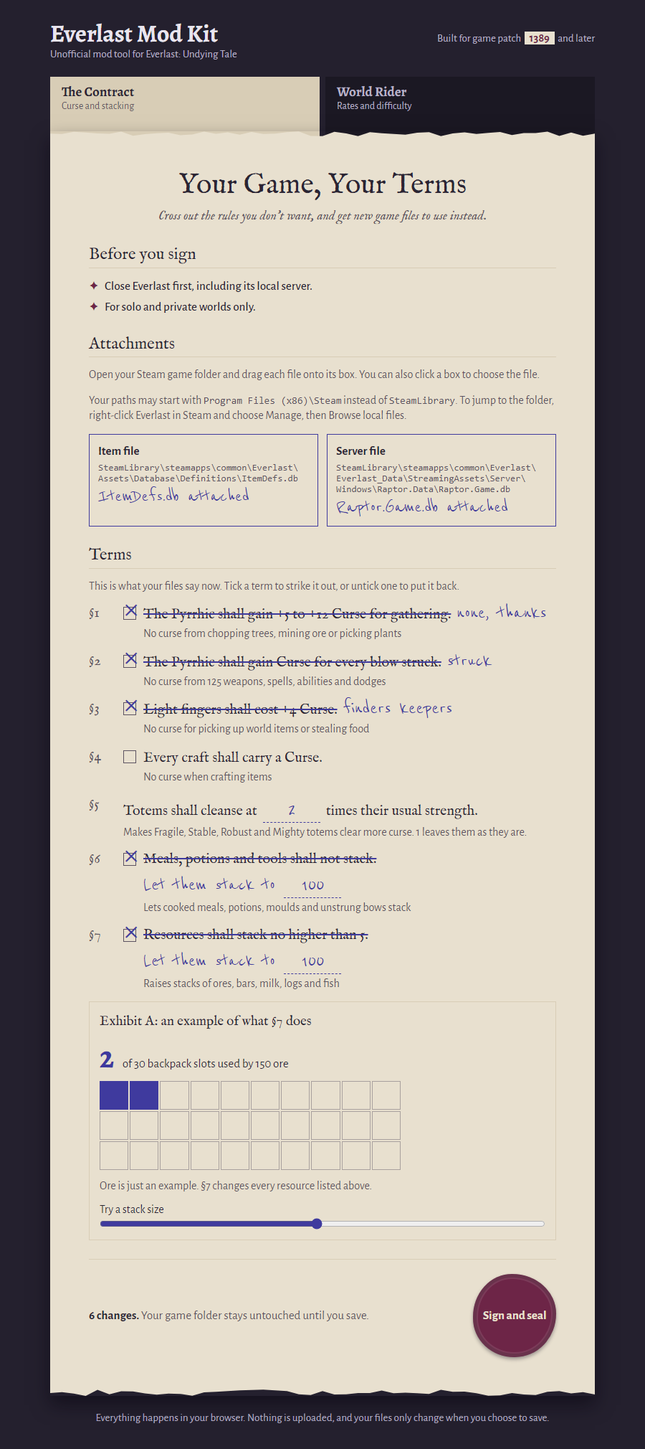
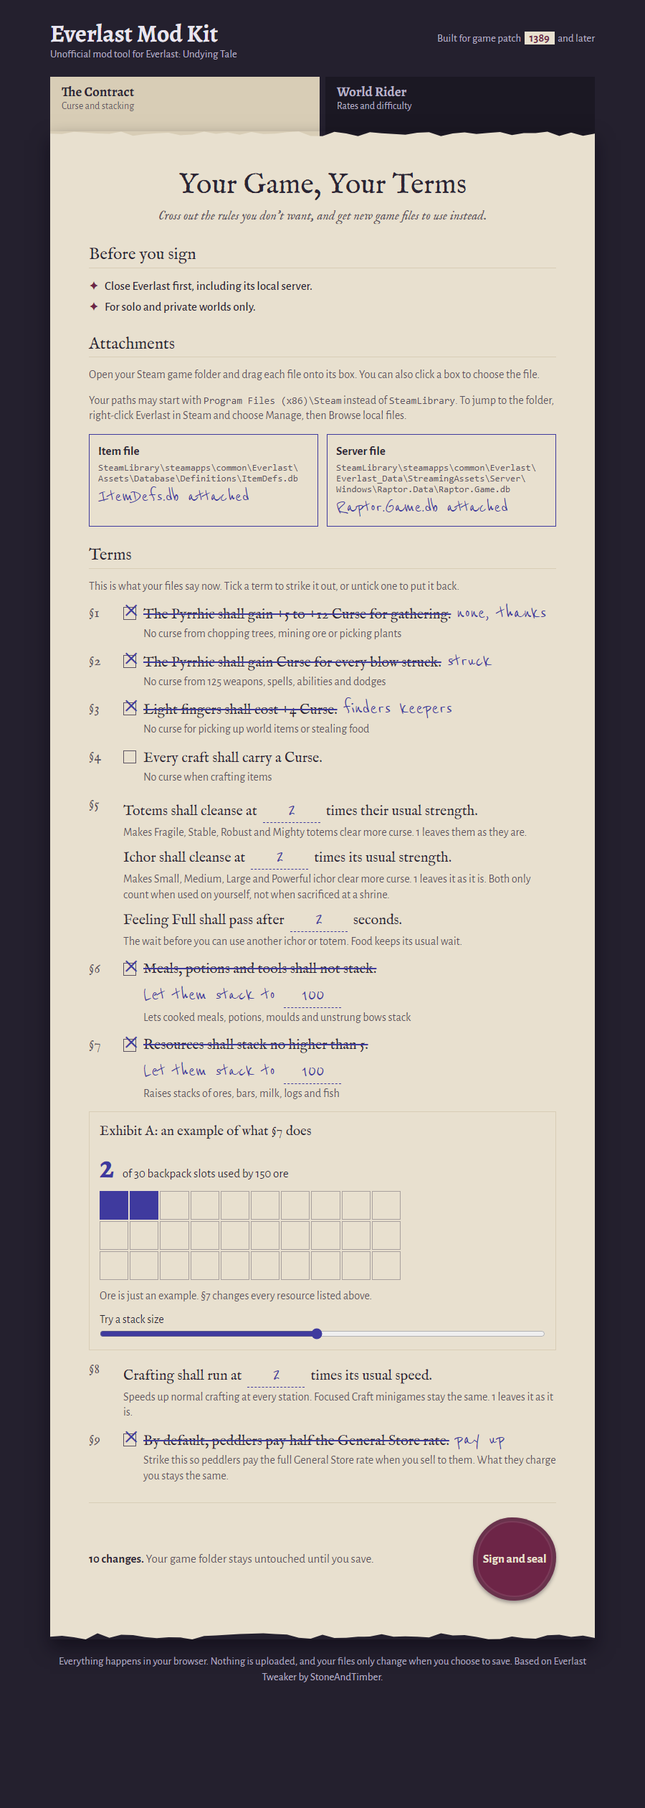
Add ichor, Feeling Full, crafting speed and peddler pay settings
Ichor strength shares the totem code. The Feeling Full wait only changes
ichor and totems. Crafting speed scales normal crafting from the game's
own times and leaves Focused Craft minigames alone. Peddlers can pay the
General Store rate. All of it can be reversed from the page.

The receipt no longer counts totem and ichor edits as stacking changes.
The README and screenshots cover the new settings.

Changed region(s): [[0.0622, 0.0, 0.9333, 0.9668], [0.6844, 0.0, 0.9333, 0.0312], [0.1244, 0.5302, 0.1556, 0.5614]]

diff --git a/Everlast Mod Kit.html b/Everlast Mod Kit.html
@@ -345,6 +345,18 @@
               <span>times their usual strength.</span>
             </div>
             <p class="plain">Makes Fragile, Stable, Robust and Mighty totems clear more curse. 1 leaves them as they are.</p>
+            <div class="rate-row">
+              <span>Ichor shall cleanse at</span>
+              <input class="ink-num" type="number" id="ichorMult" min="1" max="10" step="0.5" value="1.0" aria-label="Ichor strength multiplier">
+              <span>times its usual strength.</span>
+            </div>
+            <p class="plain">Makes Small, Medium, Large and Powerful ichor clear more curse. 1 leaves it as it is. Both only count when used on yourself, not when sacrificed at a shrine.</p>
+            <div class="rate-row">
+              <span>Feeling Full shall pass after</span>
+              <input class="ink-num" type="number" id="fullWait" min="1" max="5" step="1" value="5" aria-label="Feeling Full wait in seconds">
+              <span>seconds.</span>
+            </div>
+            <p class="plain">The wait before you can use another ichor or totem. Food keeps its usual wait.</p>
           </div>
         </div>
 
@@ -375,6 +387,26 @@
             <input type="range" id="packRange" min="5" max="200" value="100">
           </label>
         </figure>
+
+        <div class="clause open">
+          <span class="num">&sect;8</span>
+          <div>
+            <div class="rate-row">
+              <span>Crafting shall run at</span>
+              <input class="ink-num" type="number" id="craftSpeed" min="1" max="10" step="0.5" value="1.0" aria-label="Crafting speed multiplier">
+              <span>times its usual speed.</span>
+            </div>
+            <p class="plain">Speeds up normal crafting at every station. Focused Craft minigames stay the same. 1 leaves it as it is.</p>
+          </div>
+        </div>
+
+        <div class="clause">
+          <span class="num">&sect;9</span>
+          <div>
+            <label class="term"><input type="checkbox" id="fairPeddler"><span class="box"></span><s>By default, peddlers pay half the General Store rate.</s><span class="hand">pay up</span></label>
+            <p class="plain">Strike this so peddlers pay the full General Store rate when you sell to them. What they charge you stays the same.</p>
+          </div>
+        </div>
       </section>
 
       <section class="sign">
@@ -521,7 +553,8 @@ let readyFiles = null;
 let readyStats = null;
 let loadedTerms = null;
 const fileHandles = {};
-const TERM_BOXES = ['noGatherCurse', 'noCombatCurse', 'noStealCurse', 'noCraftCurse', 'stackNewItems', 'upgradeResources'];
+const TERM_BOXES = ['noGatherCurse', 'noCombatCurse', 'noStealCurse', 'noCraftCurse', 'fairPeddler', 'stackNewItems', 'upgradeResources'];
+const RATE_BOXES = ['totemMult', 'ichorMult', 'fullWait', 'craftSpeed'];
 const STACK_TERMS = [['stackNewItems', 'newStackSize', 'newStackAmend', 'newSize'], ['upgradeResources', 'resourceStackSize', 'resourceAmend', 'resourceSize']];
 let currentWorldJson = null;
 let currentWorldFileName = "worldsettings.json";
@@ -556,7 +589,7 @@ function countChanges() {
   if (!loadedTerms) return 0;
   const terms = TERM_BOXES.filter(id => $(id).checked !== loadedTerms[id]).length;
   const sizes = STACK_TERMS.filter(([box, num, , size]) => $(box).checked && loadedTerms[box] && Number($(num).value) !== loadedTerms[size]).length;
-  return terms + sizes + (Number($('totemMult').value) !== loadedTerms.totemMult ? 1 : 0);
+  return terms + sizes + RATE_BOXES.filter(id => Number($(id).value) !== loadedTerms[id]).length;
 }
 
 function checkReady() {
@@ -611,8 +644,10 @@ function showTerms(terms) {
   STACK_TERMS.forEach(([box, num, , size]) => {
     $(num).value = (terms && terms[box] && terms[size]) || $(num).defaultValue;
   });
-  $('totemMult').disabled = !terms;
-  $('totemMult').value = terms ? terms.totemMult : 1;
+  RATE_BOXES.forEach(id => {
+    $(id).disabled = !terms;
+    $(id).value = terms ? terms[id] : $(id).defaultValue;
+  });
 
   $('termsHint').textContent = terms
     ? 'This is what your files say now. Tick a term to strike it out, or untick one to put it back.'
@@ -822,8 +857,25 @@ const TOTEM_BASES = {
   'Mighty Totem': -60
 };
 
+const ICHOR_BASES = {
+  'Small Ichor': -10,
+  'Medium Ichor': -20,
+  'Large Ichor': -30,
+  'Powerful Ichor': -40
+};
+
+const CLEANSERS = [
+  { bases: TOTEM_BASES, mult: 'totemMult', stat: 'totemsBuffed' },
+  { bases: ICHOR_BASES, mult: 'ichorMult', stat: 'ichorsBuffed' }
+];
+
+const FEELING_FULL = 54;
+const PEDDLER_SHOP = 30;
+const PEDDLER_PAY = 50;
+const GENERAL_STORE_PAY = 100;
+
 // The game's own values for patch 1389. Files don't remember what a mod replaced, so unticking a term restores from here.
-const VANILLA = {"resources":{"1":5,"2":5,"3":5,"19":5,"20":5,"21":5,"22":5,"23":5,"24":5,"25":5,"26":5,"27":5,"28":5,"29":5,"30":5,"31":5,"33":5,"34":5,"35":5,"36":5,"37":5,"38":5,"39":5,"40":5,"41":5,"42":5,"43":5,"44":5,"45":5,"46":5,"48":5,"49":5,"50":5,"70":5,"71":5,"72":5,"73":5,"74":5,"75":5,"76":5,"77":5,"78":5,"79":5,"80":5,"91":5,"97":5,"98":5,"99":5,"100":5,"101":5,"102":5,"103":5,"104":5,"105":5,"106":5,"107":5,"108":5,"109":5,"110":5,"111":5,"112":5,"113":5,"114":5,"117":5,"118":5,"119":5,"120":5,"121":5,"122":5,"123":5,"124":5,"125":5,"126":5,"127":5,"128":5,"130":5,"131":5,"132":5,"133":5,"134":5,"135":5,"136":5,"137":5,"138":5,"139":5,"140":5,"141":5,"142":5,"143":5,"144":5,"145":5,"146":5,"147":5,"148":5,"149":5,"150":5,"151":5,"157":5,"158":5,"159":5,"160":5,"161":5,"162":5,"163":5,"164":5,"165":5,"166":5,"167":5,"168":5,"169":5,"170":5,"171":5,"172":5,"173":5,"174":5,"175":5,"176":5,"177":5,"178":5,"179":5,"180":5,"181":5,"182":5,"183":5,"184":5,"185":5,"186":5,"191":5,"193":5,"196":5,"198":5,"203":5,"207":5,"213":5,"215":5,"216":5,"217":5,"218":5,"221":5,"222":5,"225":5,"229":5,"235":5,"253":5,"254":5,"255":5,"256":5,"257":5,"258":5,"259":5,"260":5,"261":5,"262":5,"263":5,"264":5,"270":5,"272":5,"275":5,"277":5,"280":5,"283":5,"287":5,"288":5,"292":5,"293":5,"296":5,"649":5,"650":5,"652":5,"653":5,"654":5,"655":5,"656":20,"657":5,"658":5,"659":5,"661":5,"662":5,"663":5,"665":5,"667":5,"671":5,"676":5,"813":5,"817":5,"838":5,"893":5,"895":5,"897":5,"899":5,"901":5,"903":5,"905":5,"907":5,"909":5,"911":5,"913":5,"914":5,"916":5,"918":5,"920":5,"922":5,"924":5,"926":5,"928":5,"930":5,"932":5,"934":5,"936":5,"938":5,"940":5,"942":5,"944":5,"979":20,"980":20,"1032":20,"1033":20,"1036":5,"1038":5,"1066":5,"1081":5,"1082":5,"1083":5,"1084":5,"1085":5,"1086":5,"1087":5,"1088":5,"1100":5,"1102":5,"1103":5,"1104":5,"1105":5,"1111":5,"1112":5,"1123":5,"1124":5,"1125":5,"1126":5,"1154":5},"unstacked":{"81":[0,0],"83":[0,0],"87":[0,0],"88":[0,0],"189":[0,0],"192":[0,0],"194":[0,0],"195":[0,0],"197":[0,0],"199":[0,0],"200":[0,0],"201":[0,0],"202":[0,0],"204":[0,0],"205":[0,0],"206":[0,0],"208":[0,0],"209":[0,0],"210":[0,0],"211":[0,0],"212":[0,0],"214":[0,0],"223":[0,0],"224":[0,0],"226":[0,0],"227":[0,0],"230":[0,0],"231":[0,0],"232":[0,0],"233":[0,0],"234":[0,0],"236":[0,0],"237":[0,0],"238":[0,0],"239":[0,0],"240":[0,0],"241":[0,0],"242":[0,0],"243":[0,0],"244":[0,0],"245":[0,0],"246":[0,0],"247":[0,0],"248":[0,0],"249":[0,0],"250":[0,0],"251":[0,0],"252":[0,0],"625":[1,1],"626":[1,1],"627":[1,1],"629":[1,1],"630":[1,1],"632":[1,1],"633":[0,0],"634":[1,1],"635":[0,0],"636":[0,0],"637":[0,0],"638":[1,1],"639":[0,0],"640":[0,0],"641":[1,1],"642":[0,0],"644":[0,0],"645":[0,0],"646":[0,0],"647":[0,0],"648":[0,0],"651":[0,0],"660":[0,0],"664":[0,0],"666":[0,0],"668":[0,0],"669":[0,0],"670":[0,0],"672":[0,0],"673":[0,0],"674":[0,0],"675":[0,0],"677":[0,0],"678":[0,0],"679":[0,0],"680":[0,0],"681":[0,0],"682":[0,0],"683":[0,0],"684":[0,0],"685":[0,0],"686":[0,0],"687":[0,0],"688":[0,0],"689":[0,0],"690":[0,0],"691":[0,0],"692":[0,0],"693":[0,0],"694":[0,0],"695":[0,0],"696":[0,0],"697":[0,0],"698":[0,0],"699":[0,0],"700":[0,0],"701":[0,0],"702":[0,0],"703":[0,0],"704":[0,0],"705":[0,0],"706":[0,0],"707":[0,0],"816":[0,0],"818":[0,0],"819":[0,0],"820":[0,0],"825":[0,0],"826":[0,0],"839":[1,1],"840":[1,1],"841":[0,0],"853":[0,0],"854":[0,0],"855":[0,0],"856":[0,0],"857":[0,0],"858":[0,0],"859":[0,0],"860":[0,0],"861":[0,0],"862":[0,0],"863":[0,0],"864":[0,0],"865":[0,0],"866":[0,0],"867":[0,0],"868":[0,0],"869":[0,0],"870":[0,0],"871":[0,0],"872":[0,0],"873":[0,0],"874":[0,0],"875":[0,0],"876":[0,0],"877":[0,0],"878":[0,0],"879":[0,0],"880":[0,0],"881":[0,0],"882":[0,0],"883":[0,0],"884":[0,0],"885":[0,0],"886":[0,0],"887":[0,0],"888":[0,0],"889":[0,0],"890":[0,0],"891":[0,0],"892":[0,0],"900":[1,1],"948":[1,1],"950":[1,1],"952":[1,1],"955":[1,1],"956":[1,1],"957":[1,1],"958":[1,1],"959":[1,1],"960":[1,1],"961":[1,1],"962":[1,1],"963":[1,1],"964":[1,1],"965":[1,1],"966":[1,1],"968":[1,1],"969":[0,0],"974":[0,0],"981":[0,0],"982":[0,0],"984":[1,1],"1006":[0,0],"1034":[1,1],"1035":[0,0],"1044":[0,0],"1046":[1,1],"1047":[0,0],"1048":[0,0],"1049":[0,0],"1050":[0,0],"1051":[0,0],"1052":[0,0],"1053":[0,0],"1065":[0,0],"1068":[0,0],"1075":[1,1],"1107":[0,0],"1108":[0,0],"1109":[0,0],"1110":[0,0],"1113":[0,0],"1128":[0,0],"1129":[0,0],"1130":[0,0],"1131":[0,0],"1132":[0,0],"1133":[0,0],"1134":[0,0],"1135":[0,0],"1136":[0,0],"1137":[0,0],"1138":[0,0],"1141":[0,0],"1142":[0,0],"1143":[0,0],"1144":[0,0],"1145":[0,0],"1146":[0,0],"1147":[0,0],"1148":[0,0],"1149":[0,0],"1155":[0,0],"1156":[0,0],"1157":[0,0],"1158":[0,0],"1164":[0,0],"1165":[0,0],"1166":[0,0],"1167":[0,0],"1168":[0,0],"1169":[0,0],"1170":[0,0],"1171":[0,0]},"leftovers":{"129":5,"832":5,"850":5},"abilities":{"3":5,"4":3,"5":1,"6":5,"12":3,"13":5,"21":3,"22":5,"30":3,"32":3,"33":3,"35":5,"36":1,"37":1,"38":5,"39":5,"41":3,"43":5,"44":5,"45":3,"46":3,"47":5,"50":1,"51":3,"52":3,"53":1,"54":5,"55":3,"56":3,"57":1,"58":5,"59":3,"60":3,"61":1,"62":3,"63":3,"64":3,"65":3,"66":1,"67":5,"68":5,"69":3,"74":3,"75":5,"77":5,"79":5,"80":5,"81":5,"82":5,"83":5,"84":5,"85":3,"86":5,"87":1,"88":1,"89":5,"167":2,"171":3,"172":5,"183":1,"187":3,"188":3,"210":3,"217":5,"219":5,"220":5,"223":8,"224":8,"225":8,"226":8,"227":5,"228":5,"229":5,"230":5,"231":5,"232":5,"233":3,"234":3,"235":1,"236":3,"237":3,"238":5,"239":5,"240":5,"242":5,"243":3,"244":5,"245":5,"246":3,"247":5,"254":3,"255":5,"256":5,"257":5,"258":5,"261":8,"262":8,"263":8,"264":8,"265":8,"266":8,"272":2,"273":3,"274":3,"275":3,"276":3,"277":3,"278":3,"279":3,"280":3,"281":3,"282":3,"283":3,"284":3,"285":5,"286":3,"287":3,"288":3,"289":3,"290":3,"291":3,"292":3,"295":5,"296":3,"303":3},"curses":{"1":{"Collect":[4,4]},"2":{"Craft":[0,6,6,6,6,6,6,6,6,6,6,6,6,6,6,6,6,6,6]},"5":{"Success":[10,5,6,7,8,8,8,8,8,9,10,11,12]},"12":{"Success":[5,5,5,6,7,8,8,9,10,11,11,12,12]},"14":{"Craft":[6,6,6,6,6,6,6,6,6]},"16":{"Craft":[6,6]},"29":{"Craft":[6,6,6,6,6,6,6,6]},"33":{"Craft":[6,6,6,6,6,6,6,6,6,6,6,6]},"35":{"Success":[6]},"40":{"Success":[6,6,6,6,6,6,6,6,6,6,6,6,6,6,6]},"41":{"Craft":[6,6,6,6,6,6]},"42":{"Craft":[6,6,6,6,6,6,6,6,6,6,6]},"44":{"Craft":[6,6,6,6,6]},"45":{"Craft":[6,6,6,6,6,6,6,6,6]},"46":{"Craft":[6,6,6,6,6]},"47":{"Craft":[6,6,6,6,6,6,6,6,6,6,6]},"49":{"Craft":[6,6,6,6,6,6,6,6,6,6,6]},"50":{"Craft":[6,6,6,6,6]},"51":{"Craft":[6,6,6,6,6,6,6,6,6,6,6,6,6,6,6,6,6,6,6,6,6]},"52":{"Craft":[6,6,6,6,6]},"53":{"Craft":[6,6,6,6,6,6,6,6,6,6,6,6,6,6,6,6,6,6,6,6,6,6]},"56":{"Craft":[6,6,6,6,6]},"57":{"Craft":[6,6,6,6,6]},"58":{"Craft":[6,6,6,6,6,6,6,6,6,6,6,6,6,6,6,6,6,6,6,6,6]},"59":{"Craft":[6,6,6,6,6,6,6,6,6,6,6,6,6,6,6,6,6,6,6,6,6]},"60":{"Craft":[6,6,6,6,6,6,6,6,6,6,6,6,6,6,6,6,6]},"61":{"Craft":[6,6,6,6,6,6,6,6,6,6,6,6,6,6,6,6,6,6,6,6,6,6,6]},"62":{"Craft":[6,6,6,6,6,6,6,6,6,6,6,6,6,6,6,6,6,6,6,6,6,6,6]},"63":{"Craft":[6,6,6,6,6,6,6,6,6,6,6,6,6,6,6,6,6,6,6,6,6,6,6]},"64":{"Craft":[6,6,6,6,6,6,6,6,6]},"65":{"Craft":[6,6,6,6,6,6,6,6,6,6,6,6,6,6,6,6,6,6,6,6,6,6,6,6,6,6,6,6]},"70":{"Craft":[6,6,6,6,6]},"71":{"Craft":[6,6,6,6,6,6]},"72":{"Craft":[6,6,6,6,6]},"73":{"Craft":[6,6,6,6]},"74":{"Craft":[6,6,6,6,6]},"75":{"Craft":[6,6,6,6,6,6,6,6]},"76":{"Craft":[6,6,6,6,6,6]},"77":{"Craft":[6,6,6,6,6]},"78":{"Craft":[6,6,6,6,6]},"79":{"Craft":[6,6,6,6,6,6]},"80":{"Craft":[6,6,6,6,6,6]},"81":{"Craft":[6,6,6,6,6,6]},"82":{"Craft":[6,6,6,6,6,6]},"84":{"Success":[6,6,6,6,6]},"85":{"Success":[6,6,6,6,6,6,6]},"86":{"Craft":[6,6,6,6,6,6,6,6,6,6,6,6,6,6]},"87":{"Craft":[6,6,6,6,6,6,6,6]},"88":{"Craft":[6,6,6,6,6,6,6,6,6]},"107":{"Collect":[4,4,4,4,0,4,0,4,4,4,4,4,4,4,4,4,4,4,4,4,4,4,4,4,4,4,4,4,4,4,4,4,4,4,4,4,4,4,4,4,4,4,4,4,4,4,4,4,4,4,4,4,4,4,4,4,4,4,4]},"110":{"Craft":[6,6,6,6,6]},"115":{"Success":[6,6,6,6,6,6,6,6,6,6,6,6,6,6,6,6,6,6,6,6,6,6,6,6,6,6,6,6,6,6,6,6]},"118":{"Craft":[6,6,6,6,6,6,6,6,6,6,6,6,6,6,6,6,6,6,6,6,6,6,6,6,6,6]},"120":{"Craft":[6,6,6,6,6,6,6,6,6,6,6]},"121":{"Craft":[6,6,6,6,6,6,6]},"122":{"Craft":[6,6,6,6]},"124":{"Craft":[6,6,6,6,6,6,6,6,6,6,6,6]},"125":{"Craft":[6,6,6,6,6,6,6,6,6]},"126":{"Craft":[6]},"127":{"Craft":[6,6,6,6,6,6,6,6,6,6]},"128":{"Craft":[6,6,6,6,6,6,6,6,6,6]},"134":{"Success":[6,6,6,6,6]},"138":{"Craft":[6]},"139":{"Success":[6,6,6,6,6,6,6,6,6,6,6]},"140":{"Craft":[6,6,6,6,6,6,6,6,6,6,6]},"147":{"Craft":[6,6,6,6,6,6]},"151":{"Craft":[6,6,6,6,6,6,6,6,6]},"152":{"Craft":[6,6,6,6]},"153":{"Craft":[6,6]},"155":{"Craft":[6,6,6,6,6,6,6,6,6,6,6,6,6,6,6,6,6,6,6]},"164":{"Craft":[6]},"168":{"Success":[6,6,6,6,6,6,6,6]},"175":{"Success":[5,5,5,6,6,6,6,7,7,7,7,8,6,6]},"185":{"Success":[6]},"186":{"Craft":[6,6,6,6,6,6,6,6,6,6,6,6,6,6,6,6,6,6,6,6]},"187":{"Craft":[6]},"188":{"Craft":[6]},"196":{"Craft":[6,6,6]},"197":{"Craft":[6,6]},"199":{"Craft":[6]},"204":{"Craft":[6]},"206":{"Craft":[6,6,6,6,6,6,6,6,6,6,6,6,6,6,6,6,6,6,6,6,6,6,6,6,6,6,6,6,6,6]},"207":{"Craft":[6,6,6,6,6,6,6,6,6,6]}}};
+const VANILLA = {"resources":{"1":5,"2":5,"3":5,"19":5,"20":5,"21":5,"22":5,"23":5,"24":5,"25":5,"26":5,"27":5,"28":5,"29":5,"30":5,"31":5,"33":5,"34":5,"35":5,"36":5,"37":5,"38":5,"39":5,"40":5,"41":5,"42":5,"43":5,"44":5,"45":5,"46":5,"48":5,"49":5,"50":5,"70":5,"71":5,"72":5,"73":5,"74":5,"75":5,"76":5,"77":5,"78":5,"79":5,"80":5,"91":5,"97":5,"98":5,"99":5,"100":5,"101":5,"102":5,"103":5,"104":5,"105":5,"106":5,"107":5,"108":5,"109":5,"110":5,"111":5,"112":5,"113":5,"114":5,"117":5,"118":5,"119":5,"120":5,"121":5,"122":5,"123":5,"124":5,"125":5,"126":5,"127":5,"128":5,"130":5,"131":5,"132":5,"133":5,"134":5,"135":5,"136":5,"137":5,"138":5,"139":5,"140":5,"141":5,"142":5,"143":5,"144":5,"145":5,"146":5,"147":5,"148":5,"149":5,"150":5,"151":5,"157":5,"158":5,"159":5,"160":5,"161":5,"162":5,"163":5,"164":5,"165":5,"166":5,"167":5,"168":5,"169":5,"170":5,"171":5,"172":5,"173":5,"174":5,"175":5,"176":5,"177":5,"178":5,"179":5,"180":5,"181":5,"182":5,"183":5,"184":5,"185":5,"186":5,"191":5,"193":5,"196":5,"198":5,"203":5,"207":5,"213":5,"215":5,"216":5,"217":5,"218":5,"221":5,"222":5,"225":5,"229":5,"235":5,"253":5,"254":5,"255":5,"256":5,"257":5,"258":5,"259":5,"260":5,"261":5,"262":5,"263":5,"264":5,"270":5,"272":5,"275":5,"277":5,"280":5,"283":5,"287":5,"288":5,"292":5,"293":5,"296":5,"649":5,"650":5,"652":5,"653":5,"654":5,"655":5,"656":20,"657":5,"658":5,"659":5,"661":5,"662":5,"663":5,"665":5,"667":5,"671":5,"676":5,"813":5,"817":5,"838":5,"893":5,"895":5,"897":5,"899":5,"901":5,"903":5,"905":5,"907":5,"909":5,"911":5,"913":5,"914":5,"916":5,"918":5,"920":5,"922":5,"924":5,"926":5,"928":5,"930":5,"932":5,"934":5,"936":5,"938":5,"940":5,"942":5,"944":5,"979":20,"980":20,"1032":20,"1033":20,"1036":5,"1038":5,"1066":5,"1081":5,"1082":5,"1083":5,"1084":5,"1085":5,"1086":5,"1087":5,"1088":5,"1100":5,"1102":5,"1103":5,"1104":5,"1105":5,"1111":5,"1112":5,"1123":5,"1124":5,"1125":5,"1126":5,"1154":5},"unstacked":{"81":[0,0],"83":[0,0],"87":[0,0],"88":[0,0],"189":[0,0],"192":[0,0],"194":[0,0],"195":[0,0],"197":[0,0],"199":[0,0],"200":[0,0],"201":[0,0],"202":[0,0],"204":[0,0],"205":[0,0],"206":[0,0],"208":[0,0],"209":[0,0],"210":[0,0],"211":[0,0],"212":[0,0],"214":[0,0],"223":[0,0],"224":[0,0],"226":[0,0],"227":[0,0],"230":[0,0],"231":[0,0],"232":[0,0],"233":[0,0],"234":[0,0],"236":[0,0],"237":[0,0],"238":[0,0],"239":[0,0],"240":[0,0],"241":[0,0],"242":[0,0],"243":[0,0],"244":[0,0],"245":[0,0],"246":[0,0],"247":[0,0],"248":[0,0],"249":[0,0],"250":[0,0],"251":[0,0],"252":[0,0],"625":[1,1],"626":[1,1],"627":[1,1],"629":[1,1],"630":[1,1],"632":[1,1],"633":[0,0],"634":[1,1],"635":[0,0],"636":[0,0],"637":[0,0],"638":[1,1],"639":[0,0],"640":[0,0],"641":[1,1],"642":[0,0],"644":[0,0],"645":[0,0],"646":[0,0],"647":[0,0],"648":[0,0],"651":[0,0],"660":[0,0],"664":[0,0],"666":[0,0],"668":[0,0],"669":[0,0],"670":[0,0],"672":[0,0],"673":[0,0],"674":[0,0],"675":[0,0],"677":[0,0],"678":[0,0],"679":[0,0],"680":[0,0],"681":[0,0],"682":[0,0],"683":[0,0],"684":[0,0],"685":[0,0],"686":[0,0],"687":[0,0],"688":[0,0],"689":[0,0],"690":[0,0],"691":[0,0],"692":[0,0],"693":[0,0],"694":[0,0],"695":[0,0],"696":[0,0],"697":[0,0],"698":[0,0],"699":[0,0],"700":[0,0],"701":[0,0],"702":[0,0],"703":[0,0],"704":[0,0],"705":[0,0],"706":[0,0],"707":[0,0],"816":[0,0],"818":[0,0],"819":[0,0],"820":[0,0],"825":[0,0],"826":[0,0],"839":[1,1],"840":[1,1],"841":[0,0],"853":[0,0],"854":[0,0],"855":[0,0],"856":[0,0],"857":[0,0],"858":[0,0],"859":[0,0],"860":[0,0],"861":[0,0],"862":[0,0],"863":[0,0],"864":[0,0],"865":[0,0],"866":[0,0],"867":[0,0],"868":[0,0],"869":[0,0],"870":[0,0],"871":[0,0],"872":[0,0],"873":[0,0],"874":[0,0],"875":[0,0],"876":[0,0],"877":[0,0],"878":[0,0],"879":[0,0],"880":[0,0],"881":[0,0],"882":[0,0],"883":[0,0],"884":[0,0],"885":[0,0],"886":[0,0],"887":[0,0],"888":[0,0],"889":[0,0],"890":[0,0],"891":[0,0],"892":[0,0],"900":[1,1],"948":[1,1],"950":[1,1],"952":[1,1],"955":[1,1],"956":[1,1],"957":[1,1],"958":[1,1],"959":[1,1],"960":[1,1],"961":[1,1],"962":[1,1],"963":[1,1],"964":[1,1],"965":[1,1],"966":[1,1],"968":[1,1],"969":[0,0],"974":[0,0],"981":[0,0],"982":[0,0],"984":[1,1],"1006":[0,0],"1034":[1,1],"1035":[0,0],"1044":[0,0],"1046":[1,1],"1047":[0,0],"1048":[0,0],"1049":[0,0],"1050":[0,0],"1051":[0,0],"1052":[0,0],"1053":[0,0],"1065":[0,0],"1068":[0,0],"1075":[1,1],"1107":[0,0],"1108":[0,0],"1109":[0,0],"1110":[0,0],"1113":[0,0],"1128":[0,0],"1129":[0,0],"1130":[0,0],"1131":[0,0],"1132":[0,0],"1133":[0,0],"1134":[0,0],"1135":[0,0],"1136":[0,0],"1137":[0,0],"1138":[0,0],"1141":[0,0],"1142":[0,0],"1143":[0,0],"1144":[0,0],"1145":[0,0],"1146":[0,0],"1147":[0,0],"1148":[0,0],"1149":[0,0],"1155":[0,0],"1156":[0,0],"1157":[0,0],"1158":[0,0],"1164":[0,0],"1165":[0,0],"1166":[0,0],"1167":[0,0],"1168":[0,0],"1169":[0,0],"1170":[0,0],"1171":[0,0]},"leftovers":{"129":5,"832":5,"850":5},"abilities":{"3":5,"4":3,"5":1,"6":5,"12":3,"13":5,"21":3,"22":5,"30":3,"32":3,"33":3,"35":5,"36":1,"37":1,"38":5,"39":5,"41":3,"43":5,"44":5,"45":3,"46":3,"47":5,"50":1,"51":3,"52":3,"53":1,"54":5,"55":3,"56":3,"57":1,"58":5,"59":3,"60":3,"61":1,"62":3,"63":3,"64":3,"65":3,"66":1,"67":5,"68":5,"69":3,"74":3,"75":5,"77":5,"79":5,"80":5,"81":5,"82":5,"83":5,"84":5,"85":3,"86":5,"87":1,"88":1,"89":5,"167":2,"171":3,"172":5,"183":1,"187":3,"188":3,"210":3,"217":5,"219":5,"220":5,"223":8,"224":8,"225":8,"226":8,"227":5,"228":5,"229":5,"230":5,"231":5,"232":5,"233":3,"234":3,"235":1,"236":3,"237":3,"238":5,"239":5,"240":5,"242":5,"243":3,"244":5,"245":5,"246":3,"247":5,"254":3,"255":5,"256":5,"257":5,"258":5,"261":8,"262":8,"263":8,"264":8,"265":8,"266":8,"272":2,"273":3,"274":3,"275":3,"276":3,"277":3,"278":3,"279":3,"280":3,"281":3,"282":3,"283":3,"284":3,"285":5,"286":3,"287":3,"288":3,"289":3,"290":3,"291":3,"292":3,"295":5,"296":3,"303":3},"curses":{"1":{"Collect":[4,4]},"2":{"Craft":[0,6,6,6,6,6,6,6,6,6,6,6,6,6,6,6,6,6,6]},"5":{"Success":[10,5,6,7,8,8,8,8,8,9,10,11,12]},"12":{"Success":[5,5,5,6,7,8,8,9,10,11,11,12,12]},"14":{"Craft":[6,6,6,6,6,6,6,6,6]},"16":{"Craft":[6,6]},"29":{"Craft":[6,6,6,6,6,6,6,6]},"33":{"Craft":[6,6,6,6,6,6,6,6,6,6,6,6]},"35":{"Success":[6]},"40":{"Success":[6,6,6,6,6,6,6,6,6,6,6,6,6,6,6]},"41":{"Craft":[6,6,6,6,6,6]},"42":{"Craft":[6,6,6,6,6,6,6,6,6,6,6]},"44":{"Craft":[6,6,6,6,6]},"45":{"Craft":[6,6,6,6,6,6,6,6,6]},"46":{"Craft":[6,6,6,6,6]},"47":{"Craft":[6,6,6,6,6,6,6,6,6,6,6]},"49":{"Craft":[6,6,6,6,6,6,6,6,6,6,6]},"50":{"Craft":[6,6,6,6,6]},"51":{"Craft":[6,6,6,6,6,6,6,6,6,6,6,6,6,6,6,6,6,6,6,6,6]},"52":{"Craft":[6,6,6,6,6]},"53":{"Craft":[6,6,6,6,6,6,6,6,6,6,6,6,6,6,6,6,6,6,6,6,6,6]},"56":{"Craft":[6,6,6,6,6]},"57":{"Craft":[6,6,6,6,6]},"58":{"Craft":[6,6,6,6,6,6,6,6,6,6,6,6,6,6,6,6,6,6,6,6,6]},"59":{"Craft":[6,6,6,6,6,6,6,6,6,6,6,6,6,6,6,6,6,6,6,6,6]},"60":{"Craft":[6,6,6,6,6,6,6,6,6,6,6,6,6,6,6,6,6]},"61":{"Craft":[6,6,6,6,6,6,6,6,6,6,6,6,6,6,6,6,6,6,6,6,6,6,6]},"62":{"Craft":[6,6,6,6,6,6,6,6,6,6,6,6,6,6,6,6,6,6,6,6,6,6,6]},"63":{"Craft":[6,6,6,6,6,6,6,6,6,6,6,6,6,6,6,6,6,6,6,6,6,6,6]},"64":{"Craft":[6,6,6,6,6,6,6,6,6]},"65":{"Craft":[6,6,6,6,6,6,6,6,6,6,6,6,6,6,6,6,6,6,6,6,6,6,6,6,6,6,6,6]},"70":{"Craft":[6,6,6,6,6]},"71":{"Craft":[6,6,6,6,6,6]},"72":{"Craft":[6,6,6,6,6]},"73":{"Craft":[6,6,6,6]},"74":{"Craft":[6,6,6,6,6]},"75":{"Craft":[6,6,6,6,6,6,6,6]},"76":{"Craft":[6,6,6,6,6,6]},"77":{"Craft":[6,6,6,6,6]},"78":{"Craft":[6,6,6,6,6]},"79":{"Craft":[6,6,6,6,6,6]},"80":{"Craft":[6,6,6,6,6,6]},"81":{"Craft":[6,6,6,6,6,6]},"82":{"Craft":[6,6,6,6,6,6]},"84":{"Success":[6,6,6,6,6]},"85":{"Success":[6,6,6,6,6,6,6]},"86":{"Craft":[6,6,6,6,6,6,6,6,6,6,6,6,6,6]},"87":{"Craft":[6,6,6,6,6,6,6,6]},"88":{"Craft":[6,6,6,6,6,6,6,6,6]},"107":{"Collect":[4,4,4,4,0,4,0,4,4,4,4,4,4,4,4,4,4,4,4,4,4,4,4,4,4,4,4,4,4,4,4,4,4,4,4,4,4,4,4,4,4,4,4,4,4,4,4,4,4,4,4,4,4,4,4,4,4,4,4]},"110":{"Craft":[6,6,6,6,6]},"115":{"Success":[6,6,6,6,6,6,6,6,6,6,6,6,6,6,6,6,6,6,6,6,6,6,6,6,6,6,6,6,6,6,6,6]},"118":{"Craft":[6,6,6,6,6,6,6,6,6,6,6,6,6,6,6,6,6,6,6,6,6,6,6,6,6,6]},"120":{"Craft":[6,6,6,6,6,6,6,6,6,6,6]},"121":{"Craft":[6,6,6,6,6,6,6]},"122":{"Craft":[6,6,6,6]},"124":{"Craft":[6,6,6,6,6,6,6,6,6,6,6,6]},"125":{"Craft":[6,6,6,6,6,6,6,6,6]},"126":{"Craft":[6]},"127":{"Craft":[6,6,6,6,6,6,6,6,6,6]},"128":{"Craft":[6,6,6,6,6,6,6,6,6,6]},"134":{"Success":[6,6,6,6,6]},"138":{"Craft":[6]},"139":{"Success":[6,6,6,6,6,6,6,6,6,6,6]},"140":{"Craft":[6,6,6,6,6,6,6,6,6,6,6]},"147":{"Craft":[6,6,6,6,6,6]},"151":{"Craft":[6,6,6,6,6,6,6,6,6]},"152":{"Craft":[6,6,6,6]},"153":{"Craft":[6,6]},"155":{"Craft":[6,6,6,6,6,6,6,6,6,6,6,6,6,6,6,6,6,6,6]},"164":{"Craft":[6]},"168":{"Success":[6,6,6,6,6,6,6,6]},"175":{"Success":[5,5,5,6,6,6,6,7,7,7,7,8,6,6]},"185":{"Success":[6]},"186":{"Craft":[6,6,6,6,6,6,6,6,6,6,6,6,6,6,6,6,6,6,6,6]},"187":{"Craft":[6]},"188":{"Craft":[6]},"196":{"Craft":[6,6,6]},"197":{"Craft":[6,6]},"199":{"Craft":[6]},"204":{"Craft":[6]},"206":{"Craft":[6,6,6,6,6,6,6,6,6,6,6,6,6,6,6,6,6,6,6,6,6,6,6,6,6,6,6,6,6,6]},"207":{"Craft":[6,6,6,6,6,6,6,6,6,6]}},"craftTimes":{"2":[10000,3500,3500,3500,3500,3500,3500,3500,3500,3500,3500,3500,3500,3500,3500,3500,3500,3500,3500],"14":[1750,1750,1750,1750,1750,1750,1750,1750,1750],"16":[3500,3500],"29":[3500,3500,3500,3500,3500,3500,3500,3500],"33":[3500,3500,2000,3500,3500,3500,3500,3500,3500,2000,3500,2000],"41":[10000,3500,3500,3500,3500,3500],"42":[3500,3500,3500,2000,3500,3500,2000,3500,3500,3500,2000],"44":[3500,3500,3500,3500,3500],"45":[3500,3500,3500,2000,3500,2000,3500,3500,2000],"46":[3500,3500,3500,3500,3500],"47":[3500,3500,3500,3500,3500,3500,3500,3500,3500,3500,2000],"49":[2400,2400,2400,2400,2400,2400,2400,2400,2400,2400,2400],"50":[1000,1000,1000,1000,1000],"51":[2000,2000,2000,2000,2000,2000,2000,2000,2000,2000,2000,2000,2000,2000,2000,2000,2000,2000,2000,2000,2000],"52":[1000,1000,1000,1000,1000],"53":[1000,1000,1000,1000,1000,1000,1000,1000,1000,1000,1000,1000,1000,1000,1000,1000,1000,1000,1000,1000,1000,1000],"56":[1000,1000,1000,1000,1000],"57":[1000,1000,1000,1000,1000],"58":[3500,3500,3500,3500,3500,3500,3500,3500,3500,3500,3500,3500,3500,3500,3500,3500,3500,3500,3500,3500,3500],"59":[3500,3500,3500,3500,3500,3500,3500,3500,3500,3500,3500,3500,3500,3500,3500,3500,3500,3500,3500,3500,3500],"60":[3500,3500,3500,3500,3500,3500,3500,3500,3500,3500,3500,3500,3500,3500,3500,3500,3500],"61":[3200,3200,3200,3200,3200,3200,3200,3200,3200,3200,3200,3200,3200,3200,3200,3200,3200,3200,3200,3200,3200,3200,3200],"62":[2000,2000,2000,2000,2000,2000,2000,2000,2000,2000,2000,2000,2000,2000,2000,2000,2000,2000,2000,2000,2000,2000,2000],"63":[2000,2000,2000,2000,2000,2000,2000,2000,2000,2000,2000,2000,2000,2000,2000,2000,2000,2000,2000,2000,2000,2000,2000],"64":[1000,1000,1000,1000,1000,1000,1000,1000,1000],"65":[1000,1000,1000,1000,1000,1000,1000,1000,1000,1000,1000,1000,1000,1000,1000,1000,1000,1000,1000,1000,1000,1000,1000,1000,1000,1000,1000,1000],"70":[1000,1000,1000,1000,1000],"71":[3500,3500,3500,3500,3500,3500],"72":[3500,3500,3500,3500,3500],"73":[3500,3500,3500,3500],"74":[3500,3500,3500,3500,3500],"75":[1000,1000,1000,1000,1000,1000,1000,1000],"76":[10000,3500,3500,3500,3500,3500],"77":[3500,3500,3500,3500,3500],"78":[3500,3500,3500,3500,3500],"79":[3500,3500,3500,3500,3500,3500],"80":[1000,1000,1000,1000,1000,1000],"81":[1000,1000,1000,1000,1000,1000],"82":[1000,1000,1000,1000,1000,1000],"86":[3500,3500,3500,3500,3500,3500,3500,3500,3500,3500,3500,3500,3500,3500],"87":[3500,3500,3500,3500,3500,3500,3500,3500],"88":[3500,3500,3500,1000,3500,3500,3500,3500,3500],"110":[500,500,500,500,500],"118":[1000,1000,1000,1000,1000,1000,1000,1000,1000,1000,1000,1000,1000,1000,1000,1000,1000,1000,1000,1000,1000,1000,1000,1000,1000,1000],"120":[1000,1000,1000,1000,1000,1000,1000,1000,1000,1000,1000],"121":[1750,1750,1750,1750,1750,1750,1750],"122":[3500,3500,3500,3500],"124":[3500,3500,3500,3500,3500,3500,3500,3500,3500,3500,3500,3500],"125":[3500,3500,3500,1000,3500,3500,3500,3500,3500],"126":[3500],"127":[3500,3500,3500,3500,3500,3500,3500,3500,3500,3500],"128":[1000,1000,1000,1000,1000,1000,1000,1000,1000,1000],"138":[1000],"140":[1750,1750,1750,1750,1750,1750,1750,1750,1750,1750,1750],"147":[1750,1750,1750,1750,1750,1750],"151":[1000,1000,1000,1000,1000,1000,1000,1000,1000],"152":[1000,1000,1000,1000],"153":[1000,1000],"155":[1000,1000,1000,1000,1000,1000,1000,1000,1000,1000,1000,1000,1000,1000,1000,1000,1000,1000,1000],"164":[3500],"186":[3500,3500,3500,3500,3500,3500,3500,3500,3500,3500,3500,3500,3500,3500,3500,3500,3500,3500,3500,3500],"187":[1000],"188":[1000],"196":[3500,3500,3500],"197":[3500,3500],"199":[3500],"204":[3500],"206":[3500,3500,3500,3500,3500,3500,3500,3500,3500,3500,3500,3500,3500,3500,3500,3500,3500,3500,3500,3500,3500,3500,3500,3500,3500,3500,3500,3500,3500,3500],"207":[3500,3500,3500,3500,3500,3500,3500,3500,3500,3500]}};
 
 const isVanillaResource = (st, max) => st === 1 && [5, 20, 40].includes(max);
 const isVanillaUnstacked = (st, max) => st === 0 || max <= 1 || [10, 40].includes(max);
@@ -837,7 +889,7 @@ function mostCommon(values) {
 // What a file says right now. A true term means it is already struck in this file.
 function readTerms(db) {
   const hasTable = name => fetchRows(db, "SELECT name FROM sqlite_master WHERE type='table' AND name=?", [name]).length > 0;
-  const terms = { noGatherCurse: true, noCombatCurse: true, noStealCurse: true, noCraftCurse: true, stackNewItems: false, upgradeResources: false, totemMult: 1, newSize: null, resourceSize: null };
+  const terms = { noGatherCurse: true, noCombatCurse: true, noStealCurse: true, noCraftCurse: true, fairPeddler: true, stackNewItems: false, upgradeResources: false, totemMult: 1, ichorMult: 1, fullWait: 5, craftSpeed: 1, newSize: null, resourceSize: null };
   const changed = { resources: [], unstacked: [] };
 
   if (hasTable('ItemDefs')) {
@@ -846,10 +898,13 @@ function readTerms(db) {
       const max = Number(item.MaxStackSize);
       if (VANILLA.resources[item.Id] !== undefined && max !== VANILLA.resources[item.Id]) changed.resources.push(max);
       if (VANILLA.unstacked[item.Id] && (st !== VANILLA.unstacked[item.Id][0] || max !== VANILLA.unstacked[item.Id][1])) changed.unstacked.push(max);
-      if (TOTEM_BASES[item.Name]) {
+      const cleanser = CLEANSERS.find(k => k.bases[item.Name]);
+      if (cleanser) {
         try {
-          const totem = JSON.parse(item.Components).find(c => c.$type === 'ConsumableComponent' && c.CurseGain < 0);
-          if (totem) terms.totemMult = Math.round(totem.CurseGain / TOTEM_BASES[item.Name] * 2) / 2;
+          const use = JSON.parse(item.Components).find(c => c.$type === 'ConsumableComponent' && c.CurseGain < 0);
+          if (use) terms[cleanser.mult] = Math.round(use.CurseGain / cleanser.bases[item.Name] * 2) / 2;
+          const full = use?.ConditionsToApply?.find(a => a.ConditionId === FEELING_FULL);
+          if (full) terms.fullWait = full.Stacks;
         } catch(e) {}
       }
     }
@@ -871,13 +926,25 @@ function readTerms(db) {
       if (/"CurseGainOnCollect"\s*:\s*0*[1-9]/.test(row.Components)) terms.noStealCurse = false;
       if (/"CurseGainOnCraft"\s*:\s*0*[1-9]/.test(row.Components)) terms.noCraftCurse = false;
     }
+
+    for (const [id, times] of Object.entries(VANILLA.craftTimes)) {
+      const now = fetchRows(db, "SELECT Components FROM ComponentSetDefs WHERE Id = ?", [id])[0]?.Components.match(/"CraftingTime"\s*:\s*([0-9]+)/);
+      if (now) {
+        terms.craftSpeed = Math.round(times[0] / Number(now[1]) * 2) / 2;
+        break;
+      }
+    }
+  }
+
+  if (hasTable('ShopDefs')) {
+    terms.fairPeddler = fetchRows(db, "SELECT SellMultiplier FROM ShopDefs WHERE Id = ?", [PEDDLER_SHOP])[0]?.SellMultiplier === GENERAL_STORE_PAY;
   }
 
   return terms;
 }
 
 function processDb(db, options, isServer) {
-  const stats = { stackChanged: 0, curseChanged: 0, totemsBuffed: 0 };
+  const stats = { stackChanged: 0, curseChanged: 0, totemsBuffed: 0, ichorsBuffed: 0, fullWaitChanged: 0, craftChanged: 0, peddlerChanged: 0 };
 
   // 1. STACKING & TOTEMS in ItemDefs
   if (fetchRows(db, "SELECT name FROM sqlite_master WHERE type='table' AND name='ItemDefs'").length > 0) {
@@ -909,31 +976,44 @@ function processDb(db, options, isServer) {
           max = options.newStackSize;
         }
       }
-      touched = st !== Number(item.Stackable) || max !== Number(item.MaxStackSize);
+      const stacked = st !== Number(item.Stackable) || max !== Number(item.MaxStackSize);
+      touched = stacked;
 
-      // Totems
-      if (options.changeTotems && TOTEM_BASES[item.Name]) {
+      // Totems and ichor
+      const cleanser = CLEANSERS.find(k => k.bases[item.Name]);
+      const changeStrength = cleanser && options.changedRates.includes(cleanser.mult);
+      const changeWait = cleanser && options.changedRates.includes('fullWait');
+      if (changeStrength || changeWait) {
         try {
           const parsed = JSON.parse(cmp);
           let found = false;
+          let waited = false;
           for (let c of parsed) {
-            if (c.$type === 'ConsumableComponent' && typeof c.CurseGain === 'number' && c.CurseGain < 0) {
-              c.CurseGain = Math.round(TOTEM_BASES[item.Name] * options.totemMult);
+            if (c.$type !== 'ConsumableComponent') continue;
+            if (changeStrength && typeof c.CurseGain === 'number' && c.CurseGain < 0) {
+              c.CurseGain = Math.round(cleanser.bases[item.Name] * options[cleanser.mult]);
               found = true;
             }
+            if (changeWait) {
+              for (const applied of c.ConditionsToApply || []) {
+                if (applied.ConditionId === FEELING_FULL) {
+                  applied.Stacks = options.fullWait;
+                  waited = true;
+                }
+              }
+            }
           }
-          if (found) {
+          if (found || waited) {
             cmp = JSON.stringify(parsed);
-            stats.totemsBuffed++;
+            if (found) stats[cleanser.stat]++;
+            if (waited) stats.fullWaitChanged++;
             touched = true;
           }
         } catch(e) {}
       }
 
-      if (touched) {
-        upd.run([st, max, cmp, item.Id]);
-        stats.stackChanged++;
-      }
+      if (touched) upd.run([st, max, cmp, item.Id]);
+      if (stacked) stats.stackChanged++;
     }
     upd.free();
   }
@@ -974,7 +1054,29 @@ function processDb(db, options, isServer) {
         stats.curseChanged++;
       }
     }
+
+    // 4. CRAFTING SPEED, always worked out from the game's own times
+    if (options.changedRates.includes('craftSpeed')) {
+      for (const [id, times] of Object.entries(VANILLA.craftTimes)) {
+        const row = fetchRows(db, "SELECT Components FROM ComponentSetDefs WHERE Id = ?", [id])[0];
+        if (!row) continue;
+        let n = 0;
+        const c = row.Components.replace(/"CraftingTime"\s*:\s*([0-9]+)/g, (match, value) =>
+          `"CraftingTime": ${n < times.length ? Math.max(1, Math.round(times[n++] / options.craftSpeed)) : value}`);
+        if (c !== row.Components) {
+          updComp.run([c, id]);
+          stats.craftChanged += n;
+        }
+      }
+    }
     updComp.free();
+  }
+
+  // 5. PEDDLER PAY in ShopDefs
+  if (fetchRows(db, "SELECT name FROM sqlite_master WHERE type='table' AND name='ShopDefs'").length > 0) {
+    const pay = options.fairPeddler ? GENERAL_STORE_PAY : PEDDLER_PAY;
+    db.run("UPDATE ShopDefs SET SellMultiplier = ? WHERE Id = ? AND SellMultiplier != ?", [pay, PEDDLER_SHOP, pay]);
+    stats.peddlerChanged += db.getRowsModified();
   }
 
   return stats;
@@ -987,7 +1089,11 @@ async function runMod() {
     noStealCurse: $('noStealCurse').checked,
     noCraftCurse: $('noCraftCurse').checked,
     totemMult: Number($('totemMult').value),
-    changeTotems: Number($('totemMult').value) !== loadedTerms.totemMult,
+    ichorMult: Number($('ichorMult').value),
+    fullWait: Number($('fullWait').value),
+    craftSpeed: Number($('craftSpeed').value),
+    fairPeddler: $('fairPeddler').checked,
+    changedRates: RATE_BOXES.filter(id => Number($(id).value) !== loadedTerms[id]),
     stackNewItems: $('stackNewItems').checked,
     newStackSize: Number($('newStackSize').value),
     upgradeResources: $('upgradeResources').checked,
@@ -1050,7 +1156,11 @@ function showReceipt() {
   const rows = [
     ['Stacking rules changed', client.stackChanged, server.stackChanged],
     ['Curse sources changed', client.curseChanged, server.curseChanged],
-    ['Totems changed', client.totemsBuffed, server.totemsBuffed]
+    ['Totems changed', client.totemsBuffed, server.totemsBuffed],
+    ['Ichor changed', client.ichorsBuffed, server.ichorsBuffed],
+    ['Feeling Full waits changed', client.fullWaitChanged, server.fullWaitChanged],
+    ['Crafting recipes changed', client.craftChanged, server.craftChanged],
+    ['Peddler prices changed', client.peddlerChanged, server.peddlerChanged]
   ];
   $('tallyBody').replaceChildren(...rows.map(cells => {
     const tr = document.createElement('tr');

diff --git a/README.md b/README.md
@@ -1,6 +1,6 @@
 # Everlast Mod Kit
 
-A free, no-install mod tool for **Everlast: Undying Tale**. It's a single web page that lets you remove curse sources, raise stack sizes and change your world's rates and difficulty.
+A free, no-install mod tool for **Everlast: Undying Tale**. It's a single web page that lets you remove curse sources, raise stack sizes, speed up crafting, strengthen ichor and totems, and change your world's rates and difficulty.
 
 There's nothing to install, and nothing is uploaded. Your files stay on your PC.
 
@@ -11,9 +11,13 @@ There's nothing to install, and nothing is uploaded. Your files stay on your PC.
 **The Contract** (curse and stacking)
 
 - Remove curse from gathering, combat, picking up or stealing items, and crafting
-- Make totems clear more curse
+- Make totems and ichor clear more curse, and shorten the Feeling Full wait after using them
+- Speed up normal crafting (Focused Craft minigames stay the same)
+- Make peddlers pay the full General Store rate when you sell to them
 - Let meals, potions, moulds and unstrung bows stack
 - Raise stack sizes for ores, bars, milk, logs and fish
+
+![The ichor, Feeling Full, crafting and peddler settings](screenshots/settings.png)
 
 **World Rider** (one world's settings)
 
@@ -46,7 +50,7 @@ If you don't see the save button, you'll get **Download my modded files** instea
 
 ## Undoing a change
 
-Add your files to the page again, untick the term and save. You don't need a backup.
+Add your files to the page again, untick the term or set the number back to its original value, then save. You don't need a backup.
 
 To put everything back exactly as the game shipped it, use Steam: right-click Everlast and choose Properties, then Installed Files, then Verify integrity of game files.
 
@@ -55,6 +59,7 @@ To put everything back exactly as the game shipped it, use Steam: right-click Ev
 - This is an unofficial tool, made for solo and private worlds.
 - Built for game patch 1389. A game update may replace these files, so come back and apply your changes again.
 - Back up your Worlds folder and try your changes on a test world first.
+- Ichor and totems only clear curse when you use them on yourself. Sacrificing them at a shrine doesn't clear curse.
 - Saving directly needs Chrome or Edge. Other browsers use the download instead. Your browser may also refuse to save into a Steam library inside `Program Files`, and the download works there too.
 
 ## Credits
